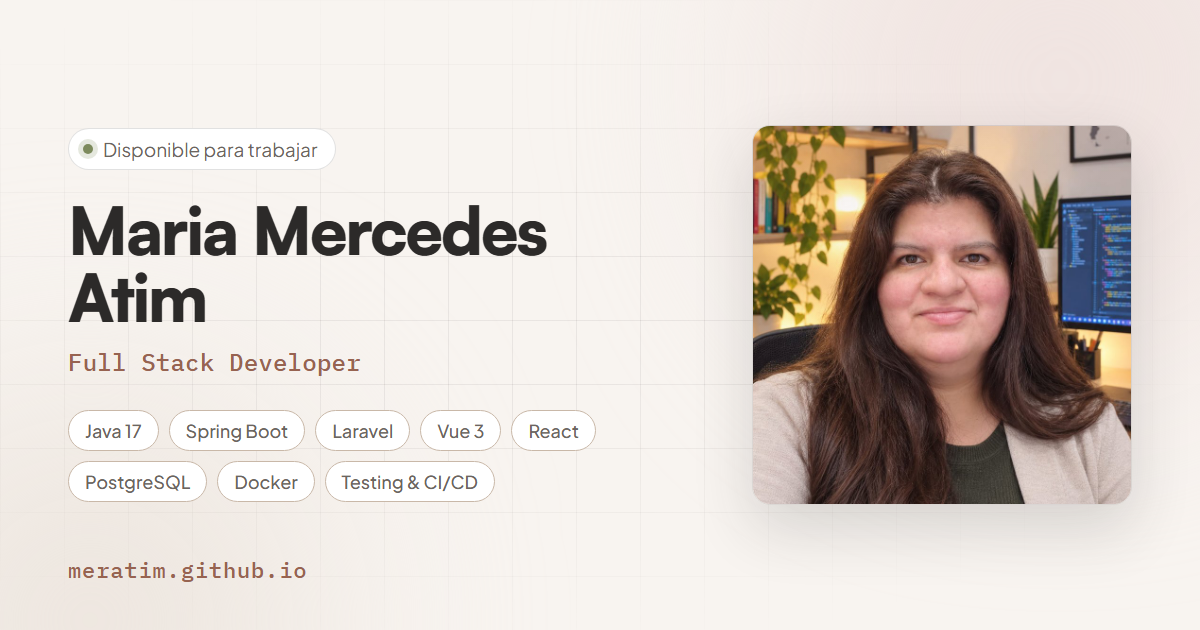
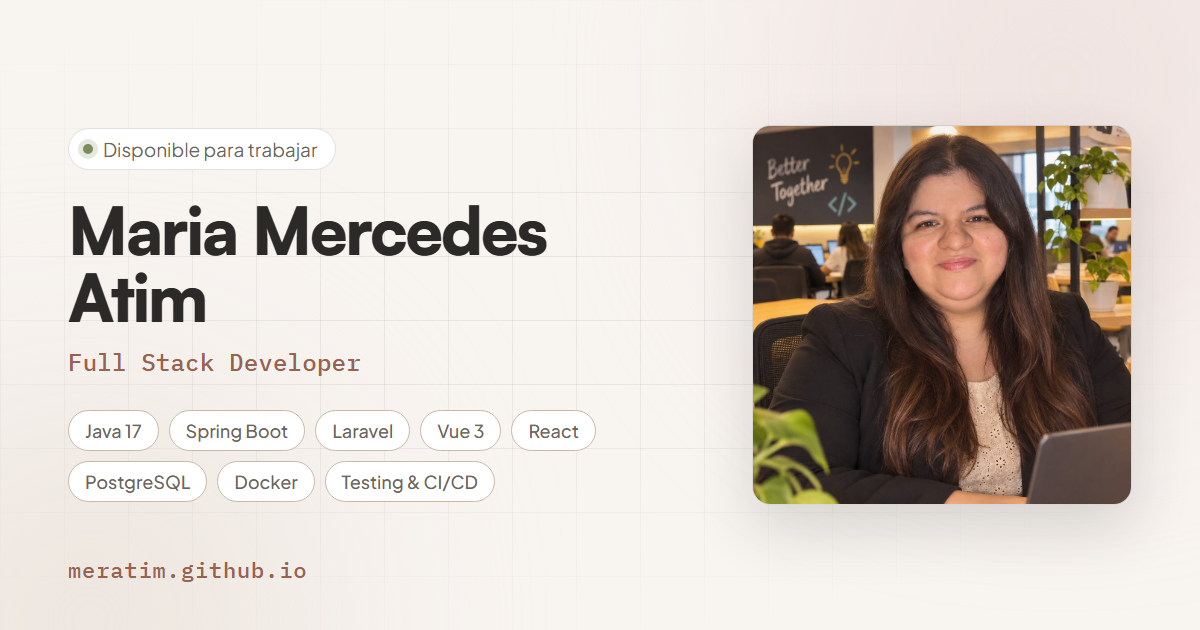
Cambia la foto de perfil del portafolio
Actualiza el hero y regenera la imagen de vista previa para redes.

Changed region(s): [[0.6167, 0.181, 0.9558, 0.8143]]

diff --git a/index.html b/index.html
@@ -180,7 +180,7 @@
 
         <div class="hero__visual reveal">
           <figure class="hero__photo">
-            <img src="./assets/Mercedes-perfil.jpg" alt="Maria Mercedes Atim" data-i18n-alt="hero.photo" width="800" height="800">
+            <img src="./assets/Meratim.jpeg" alt="Maria Mercedes Atim" data-i18n-alt="hero.photo" width="800" height="800">
           </figure>
 
           <div class="terminal">

diff --git a/tools/og-card.html b/tools/og-card.html
@@ -110,7 +110,7 @@
         <span class="chip">Testing &amp; CI/CD</span>
       </div>
     </div>
-    <div class="photo"><img src="../assets/Mercedes-perfil.jpg" alt=""></div>
+    <div class="photo"><img src="../assets/Meratim.jpeg" alt=""></div>
   </div>
 
   <div class="url">meratim.github.io</div>
